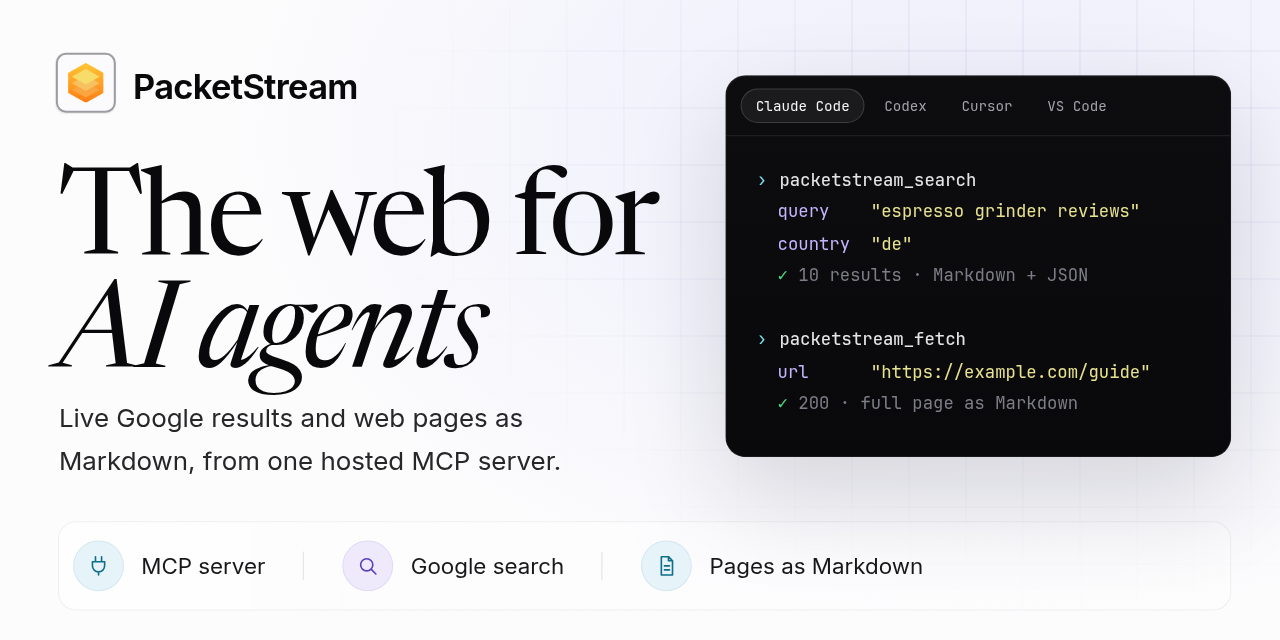
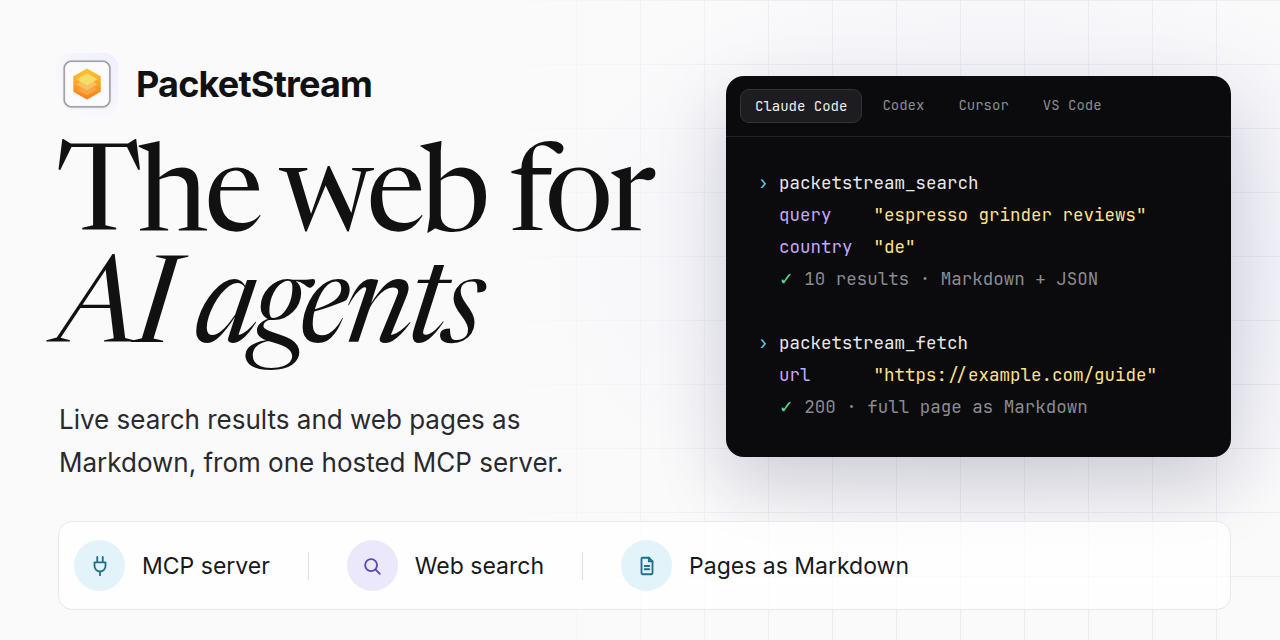
Use neutral wording for the search provider
Update the README, header image, server.json description, and plugin
manifests to describe the search tool as live web search.

diff --git a/README.md b/README.md
@@ -1,8 +1,8 @@
-![PacketStream: the web for AI agents. Live Google results and web pages as Markdown, from one hosted MCP server.](.github/social-preview.png)
+![PacketStream: the web for AI agents. Live search results and web pages as Markdown, from one hosted MCP server.](.github/social-preview.png)
 
-# PacketStream MCP server: Google search and web pages as Markdown for AI agents
+# PacketStream MCP server: live web search and web pages as Markdown for AI agents
 
-PacketStream runs a hosted [Model Context Protocol](https://modelcontextprotocol.io) (MCP) server that gives AI agents and LLM apps two web tools. `packetstream_search` runs a live Google search and returns the results as Markdown and JSON. `packetstream_fetch` fetches a web page through PacketStream's residential network and returns the page itself as Markdown, not a summary. Connect it to Claude Code, Codex, Cursor, Gemini CLI, VS Code, Claude Desktop, Cline or any other MCP client that supports remote servers.
+PacketStream runs a hosted [Model Context Protocol](https://modelcontextprotocol.io) (MCP) server that gives AI agents and LLM apps two web tools. `packetstream_search` runs a live search on the world's most-used search engine and returns the results as Markdown and JSON. `packetstream_fetch` fetches a web page through PacketStream's residential network and returns the page itself as Markdown, not a summary. Connect it to Claude Code, Codex, Cursor, Gemini CLI, VS Code, Claude Desktop, Cline or any other MCP client that supports remote servers.
 
 This repository holds the plugin and extension files for Claude Code, Codex, Cursor and Gemini CLI. The server runs at PacketStream, so you host nothing. Install the plugin for your client, or point any MCP client at the server URL.
 
@@ -12,7 +12,7 @@ Full documentation: <https://packetstream.io/docs/mcp/>
 
 | Tool | What it does |
 |---|---|
-| `packetstream_search` | Runs a live Google search and returns the results as Markdown, with the JSON response as structured content. You can set the country, language, location, device, page and time range. Result types: `search`, `news`, `shopping`, `places`, `autocomplete`, `scholar` and `ai_mode`. |
+| `packetstream_search` | Runs a live web search and returns the results as Markdown, with the JSON response as structured content. You can set the country, language, location, device, page and time range. Result types: `search`, `news`, `shopping`, `places`, `autocomplete`, `scholar` and `ai_mode`. |
 | `packetstream_fetch` | Reads one public `http` or `https` page and returns it as Markdown, not a summary, with the final URL, HTTP status and title. The request goes through PacketStream's residential network. |
 
 Both tools only read. Apart from the charge for each successful call, they change nothing on your computer or in your PacketStream account.
